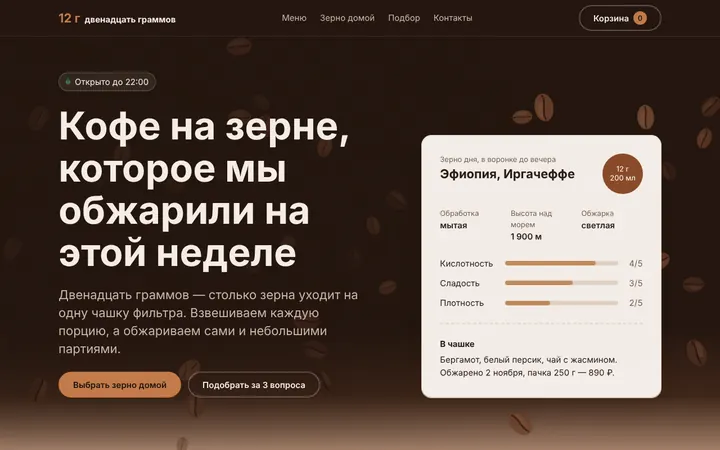
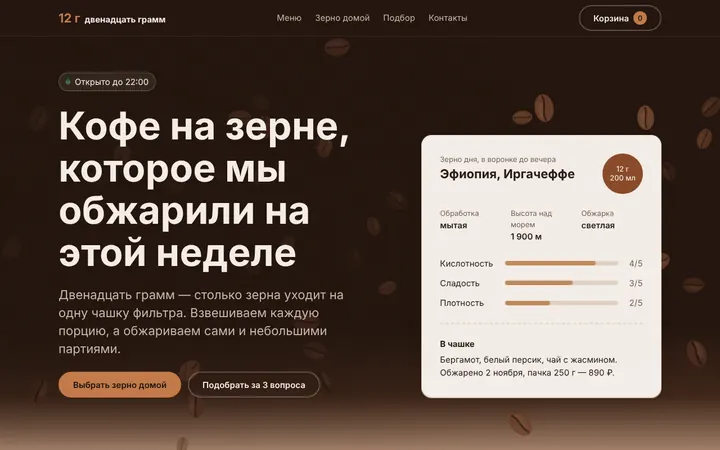
Название: «12 грамм»

diff --git a/index.html b/index.html
@@ -283,14 +283,14 @@
               <div class="browser">
                 <div class="browser__bar" aria-hidden="true"><i></i><i></i><i></i><span class="browser__url">danekkuznec.github.io/coffee-test12g</span></div>
                 <div class="browser__view" tabindex="0" aria-label="Скриншот сайта кофейни, листается">
-                  <img src="media/coffee-full.webp" alt="Сайт кофейни «12 граммов» целиком" loading="lazy" decoding="async">
+                  <img src="media/coffee-full.webp" alt="Сайт кофейни «12 грамм» целиком" loading="lazy" decoding="async">
                   <span class="browser__hint" aria-hidden="true"><span class="hint-hover">Наведите — сайт прокрутится</span><span class="hint-touch">Листайте внутри окна</span></span>
                 </div>
               </div>
             </div>
             <div class="work__body">
               <span class="tag">Сайт-визитка с каталогом</span>
-              <h3 class="work__title">Кофейня «12 граммов»</h3>
+              <h3 class="work__title">Кофейня «12 грамм»</h3>
               <p class="work__text">Сайт кофейни, через который продаётся зерно домой с самовывозом.</p>
               <ul class="work__list">
                 <li>Меню и каталог зерна с выбором веса и помола</li>
